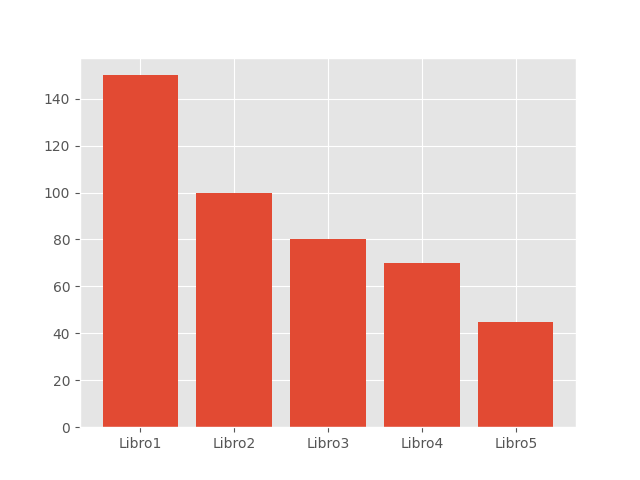
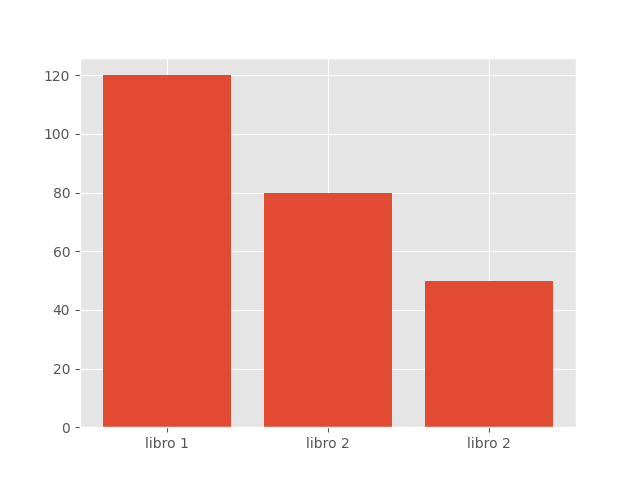
agregada funcion de reportes de estadistica

diff --git a/reportes/estadisticas.html b/reportes/estadisticas.html
@@ -18,7 +18,7 @@
 <body>
     <h1>BIBLIOTK</h1>
     <hr>
-    <h2>Informe de estadísticas (03-07-2023)</h2>
+    <h2>Informe de estadísticas {{fecha}}</h2>
     <h3>Libros más prestados</h3>
     <p>A continuación se presenta un gráfico mostrándo los libros más populares de la biblioteca.</p>
     <img src="barras.PNG" alt="">

diff --git a/reportes.py b/reportes.py
@@ -1,0 +1,133 @@
+import matplotlib.pyplot as plt
+import pdfkit
+import jinja2
+
+# Función para generar reportes de estadisticas
+def generarReporteEst(ruta, fecha, users, clientes, libros, prestamos, librosPrestados):
+
+    # Diccionario para cambiar las {{variables}} por sus valores correspondientes
+    context = {
+        "fecha": fecha,
+        "users": users,
+        "clientes": clientes,
+        "libros": libros,
+        "prestamos": prestamos,
+        "librosPrestados": librosPrestados
+    }
+
+    # Carga la plantilla HTML
+    templateLoader = jinja2.FileSystemLoader("./")
+    templateEnv = jinja2.Environment(loader=templateLoader)
+    template = templateEnv.get_template("reportes/estadisticas.html")
+
+    # Reemplaza las {{variables}} usando el diccionario
+    outpuText = template.render(context)
+
+    #Hace que pdfkit detecte wkhtmltopdf
+    path = r"C:\Program Files\wkhtmltopdf\bin\wkhtmltopdf.exe" #reemplaza esto por el directorio que tengas, pero no quites la r al inicio
+    config = pdfkit.configuration(wkhtmltopdf=path)
+
+    # Indica el nombre que tendrá el archivo pdf
+    outputPDF = ruta + "Estadísticas" + fecha + ".pdf"
+
+    # Crea el pdf a partir del archivo html
+    pdfkit.from_string(outpuText, outputPDF, configuration=config)
+
+
+# Crea un png del grafico de barras
+def guardarBarras(libro1, numero1, libro2, numero2, libro3, numero3):
+
+    # Datos del grafico
+    numLibros = [0, 0, 0]
+    titulos = ["", "", ""]
+
+    titulos[0] = libro1
+    titulos[1] = libro2
+    titulos[2] = libro3
+
+    numLibros[0] = numero1
+    numLibros[1] = numero2
+    numLibros[2] = numero3
+
+    # Cantidad de posiciones en el gráfico
+    positions = range(len(numLibros))
+
+    # Estilo del grafico
+    plt.style.use("ggplot")
+
+    # Grafico de barras
+    plt.bar(positions, numLibros)
+
+    # Remplaza los labels
+    plt.xticks(positions, titulos)
+
+    # Guarda el grafico como un png
+    plt.savefig("reportes/barras.png")
+
+
+# Crea un png del grafico de Dona
+def guardarDona(aTiempo, tarde):
+
+    # Datos del grafico
+    labels = ["A tiempo", "Tarde"]
+    datos = [0, 0]
+    datos[0] = aTiempo
+    datos[1] = tarde
+
+    # Estilo del grafico
+    plt.style.use("ggplot")
+
+    # Grafico de pie (datos, titulos, porcentajes, donde comienza el primer angulo)
+    plt.pie(x=datos, labels=labels, autopct="%.2f%%", startangle=90)
+
+    # Mantiene una relacion 1:1 con respecto a la altura y la anchura del grafico
+    plt.axis("equal")
+
+    # Pone un circulo blanco para hacer el grafico una dona
+    circle = plt.Circle(xy=(0,0), radius=.70, facecolor="white")
+    plt.gca().add_artist(circle)
+
+    # Guarda el grafico como un png
+    plt.savefig("reportes/dona.png")
+
+
+
+# Función para generar reportes de prestamos
+def generarReportePres(ruta, numpres, cedula, nombre, idlibro, titulo, autor, fechapres, fechadev):
+
+    # Diccionario para cambiar las {{variables}} por sus valores correspondientes
+    context = {
+        "numpres": numpres, 
+        "cedula": cedula, 
+        "nombre": nombre, 
+        "idlibro": idlibro, 
+        "titulo": titulo, 
+        "autor": autor, 
+        "fechapres": fechapres, 
+        "fechadev": fechadev
+    }
+
+    # Carga la plantilla HTML
+    templateLoader = jinja2.FileSystemLoader("./")
+    templateEnv = jinja2.Environment(loader=templateLoader)
+    template = templateEnv.get_template("reportes/prestamo.html")
+
+    outpuText = template.render(context)
+
+    #Hace que pdfkit detecte wkhtmltopdf
+    path = r"C:\Program Files\wkhtmltopdf\bin\wkhtmltopdf.exe" #reemplaza esto por el directorio que tengas, pero no quites la r al inicio
+    config = pdfkit.configuration(wkhtmltopdf=path)
+
+    # Indica el nombre que tendrá el archivo pdf
+    outputPDF = ruta + "Préstamo" + numpres + ".pdf"
+
+    # Crea el pdf a partir del archivo html
+    pdfkit.from_string(outpuText, outputPDF, configuration=config)
+
+# Prueba de ejemplo
+# generarReportePres("", "5234523", "123412", "Mariana Duqeu", "12345125", "librrrro", "alonsou", "12/123/12341", "1234/2345/23")
+generarReporteEst("", "5-12-2020", "2342", "1234", "233", "1231", "12")
+
+# Generamos png nuevos de los graficos
+# guardarDona(dona1, dona2)
+# guardarBarras("libro 1", 120, "libro 2", 80, "libro 2", 50)

diff --git a/panel.py b/panel.py
@@ -7,6 +7,8 @@ from PyQt5.QtSql import *
 import re
 import shutil
 import webbrowser
+from matplotlib.backends.backend_qt5agg import FigureCanvasQTAgg as FigureCanvas
+import matplotlib.pyplot as plt
 
 
 class PanelControl(QMainWindow):
@@ -58,6 +60,10 @@ class PanelControl(QMainWindow):
             #Modifica Autores
         self.panel.tabla_Autores.clicked.connect(lambda:self.verdatoAutores())
         self.panel.ModificarA.clicked.connect(lambda:self.ModificarAutores())
+
+            # Generar Reportes
+        self.panel.Generar_Reportes_E.clicked.connect(self.generarReporteEst()) # Estadisticas
+        self.panel.Generar_Reportes_P.clicked.connect(self.generarReportePres()) # Prestamos
 
     # Funciones del menubar
     def inicioIr(self):
